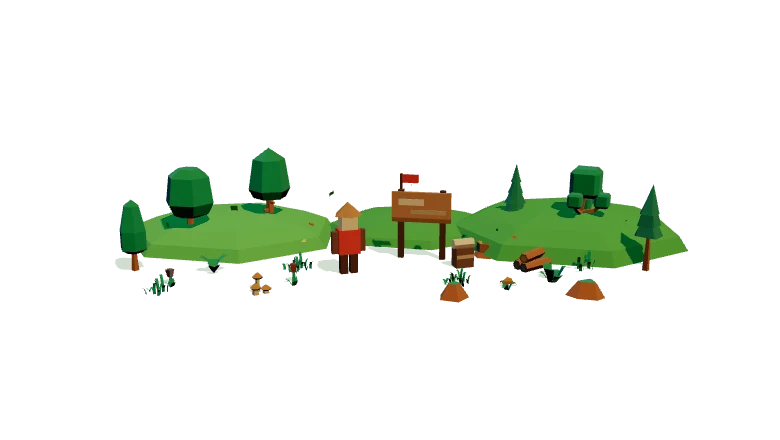
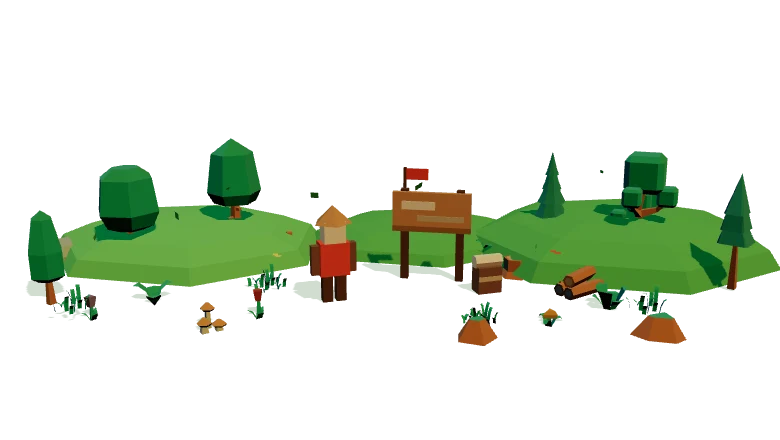
give the About prose the width and the trailhead less of it
The trailhead took more than half the row, which squeezed the prose into a
narrow column and made the section long, while the scene itself only
filled the bottom of its own column. The prose now gets most of the row
and reaches its reading measure, and the trailhead stands in a shorter,
narrower strip with the camera brought in to fill it.

Changed region(s): [[0.0308, 0.2955, 1.0, 0.7977], [0.6769, 0.7091, 0.7385, 0.7386]]

diff --git a/src/sections/About.tsx b/src/sections/About.tsx
@@ -50,7 +50,7 @@ export function About() {
       nextBiome="canvas"
       ridge="treeline"
     >
-      <div className="grid gap-8 md:grid-cols-[minmax(0,1fr)_minmax(0,1.1fr)] md:items-center md:gap-12">
+      <div className="grid gap-8 md:grid-cols-[minmax(0,1.6fr)_minmax(0,1fr)] md:items-center md:gap-12">
         <div>
           {lede && <p className="text-lede prose-measure font-medium">{lede}</p>}
           <div className="prose-measure text-ink-muted mt-6 space-y-5">
@@ -68,7 +68,7 @@ export function About() {
         <Strip
           scene="about"
           reaction="wave"
-          className="-mx-6 -mb-(--spacing-section) h-[220px] md:mx-0 md:h-[52vh] md:max-h-[580px] md:min-h-[360px] md:self-end md:-mr-[calc((100vw-min(100vw,var(--container-content)))/2+1.5rem)]"
+          className="-mx-6 -mb-(--spacing-section) h-[220px] md:mx-0 md:h-[300px] md:self-end md:-mr-[calc((100vw-min(100vw,var(--container-content)))/2+1.5rem)]"
         />
       </div>
     </Section>

diff --git a/src/scene/scenes/AboutScene.tsx b/src/scene/scenes/AboutScene.tsx
@@ -101,9 +101,9 @@ export function AboutScene({ host, active, parallax, noticed, onNoticed }: Scene
     <>
       <PerspectiveCamera
         makeDefault
-        position={[0.3, 3.5, 11.2]}
+        position={[0.3, 2.9, 8.4]}
         fov={30}
-        onUpdate={(camera) => camera.lookAt(0, 0.6, 0)}
+        onUpdate={(camera) => camera.lookAt(0, 0.7, 0)}
       />
       <hemisphereLight args={['#7ec4f2', '#c98a4b', 1.5]} />
       <directionalLight

diff --git a/src/scene/stills.ts b/src/scene/stills.ts
@@ -20,7 +20,7 @@ export const stills = {
     compact: { src: '/images/scenes/hero-compact.webp', width: 342, height: 342 },
   },
   about: {
-    wide: { src: '/images/scenes/about.webp', width: 800, height: 360 },
+    wide: { src: '/images/scenes/about.webp', width: 560, height: 300 },
     compact: { src: '/images/scenes/about-compact.webp', width: 390, height: 220 },
   },
   projects: {
